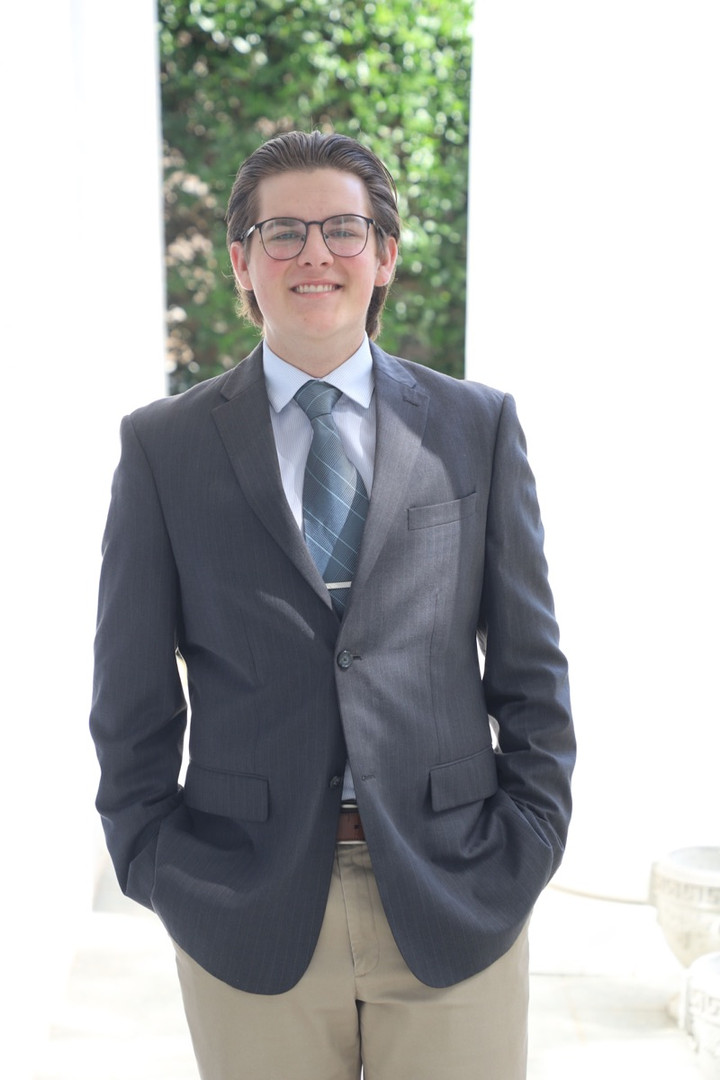
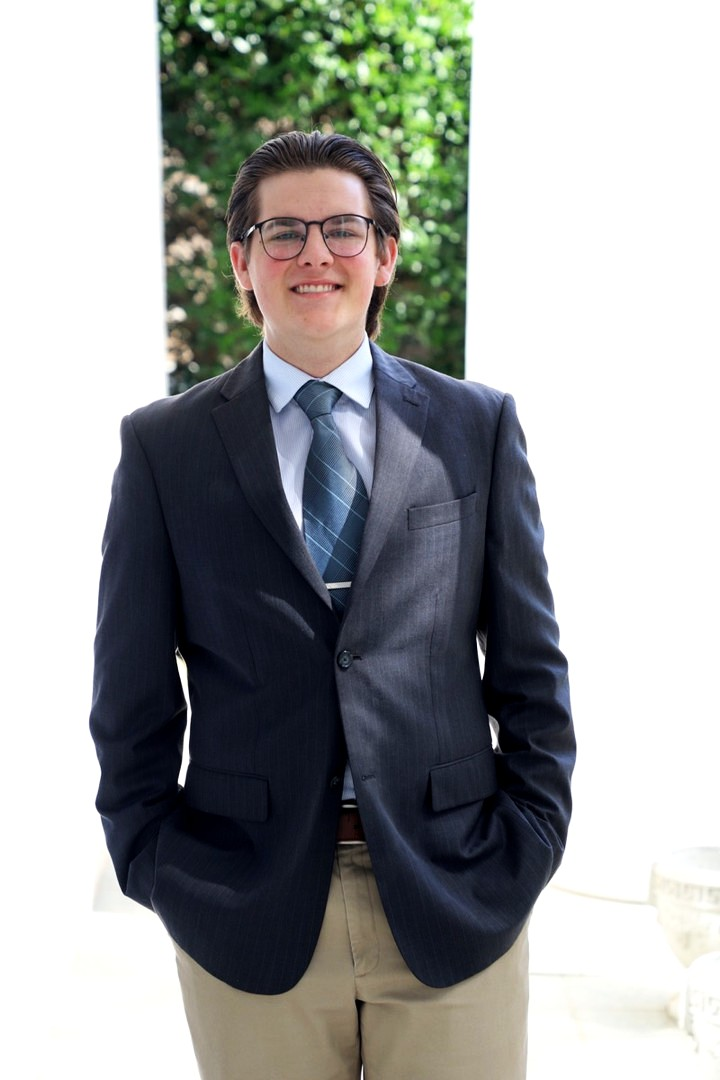
Move the sticky note into the footer, and grade the two photographs
Three owner-directed changes, none of them structural.

THE STICKY NOTE IS IN THE FOOTER NOW, half the size it was. Pinned to the
corner it was the loudest thing on every screen of a page that is meant to read
as a calm typeset site, and it announced an easter egg rather than hiding one.
In the footer you find it by reaching the end, or you never know it was there,
which is the right weight for a control that swaps the entire design. 62px note
to 31px, label 1.05rem to 0.8rem, shadows rescaled to match. It keeps its 44px
pointer target through padding, so the tap area did not shrink with the art.

THE FOUNDER PORTRAIT HAD NO BLACK, which is what "too bright" turned out to
mean. Measured against assets/chad.jpg, which was approved as shot and left
untouched:

    caden    mean 176.0   5th pct 59.9   sd 80.7    before
    chad     mean 111.4   5th pct 13.0   sd 82.3    the reference
    caden    mean 159.1   5th pct 15.0   sd 99.9    after

Its darkest five per cent sat at 60/255 against the approved portrait's 13, so
the suit was flat charcoal rather than navy with shadow detail, and the whole
frame floated 65 levels above the picture next to it. The cure is a black
point, not less light: the face and shirt stay where they were, which matters
because Goal 4 asks for clean bright portraits and specifically not grey or
washed ones.

THE LEVEL UP SHOT HAD THE OPPOSITE PROBLEM. Already dark, but its white
[…]

diff --git a/css/style.css b/css/style.css
@@ -956,7 +956,7 @@ a { color: inherit; }
    over these well before they finish arriving. */
 .caden-polaroid .pol-photo {
   object-position: 50% 10%;
[2 lines of base64/hex data omitted]
 }
 .chad-polaroid .pol-photo {
   object-position: 50% 22%;
@@ -1045,7 +1045,7 @@ a { color: inherit; }
      median is the black and nothing else, and at 48px the headline block and
      the logo are already where they will be. The filter below grades this as
      it grades the shot. */
[2 lines of base64/hex data omitted]
   /* four-colour on uncoated stock: no monitor blacks, no monitor saturation */
   filter: saturate(0.72) contrast(0.8) brightness(1.05) sepia(0.12);
 }
@@ -1336,19 +1336,20 @@ html.js.no-board .board-peek { display: none; }
 .board-exit { display: none; }
 
 html.js .board-peek {
-  position: fixed;
-  right: max(0.9rem, env(safe-area-inset-right));
-  bottom: max(0.9rem, env(safe-area-inset-bottom));
-  z-index: 60;
-  display: flex;
+  /* IN THE FOOTER, not pinned to a corner. Fixed to the viewport this was the
+     loudest thing on every screen of a page meant to read as a calm typeset
+     site; here it is a reward for reaching the bottom. Half the size it was,
+     for the same reason. */
+  display: inline-flex;
   align-items: center;
-  gap: 0.6rem;
+  gap: 0.55rem;
+  margin: 1.6rem 0 0.2rem;
   padding: 0;
   border: 0;
   background: none;
   cursor: pointer;
-  /* the whole control, note and label together, clears the 44px minimum
-     comfortably, so the tap target is the thing you can see */
+  /* the note itself is 31px now, so the control leans on padding to clear the
+     44px pointer-target minimum without looking bigger than it is */
   min-height: 44px;
   font: inherit;
   -webkit-tap-highlight-color: transparent;
@@ -1364,8 +1365,8 @@ html.js.board-open .board-peek { display: none; }
 .peek-note {
   position: relative;
   flex: 0 0 auto;
-  width: 62px;
-  height: 62px;
+  width: 31px;
+  height: 31px;
   /* the same photographed stock as the notes on the board, not a CSS square.
      sticky-04 is the smallest scan in the set at 3.5KB. Its own median sits
      underneath, so the note is the right yellow in the first frame and the
@@ -1375,8 +1376,8 @@ html.js.board-open .board-peek { display: none; }
     linear-gradient(#d1ce79, #d1ce79);
   transform: rotate(-4deg);
   filter:
-    drop-shadow(0 1px 1px rgba(25, 12, 4, 0.3))
-    drop-shadow(3px 7px 10px rgba(25, 12, 4, 0.32));
+    drop-shadow(0 1px 1px rgba(25, 12, 4, 0.28))
+    drop-shadow(1px 3px 5px rgba(25, 12, 4, 0.3));
   transition: transform 0.18s ease;
 }
 
@@ -1390,13 +1391,13 @@ html.js.board-open .board-peek { display: none; }
 
 .peek-label {
   font-family: var(--hand);
-  font-size: 1.05rem;
+  font-size: 0.8rem;
   line-height: 1;
   color: #2b2015;
   background: #f4efe2;
-  padding: 0.4rem 0.6rem;
+  padding: 0.25rem 0.4rem;
   transform: rotate(-1.2deg);
-  box-shadow: 0 2px 7px rgba(0, 0, 0, 0.32);
+  box-shadow: 0 1px 4px rgba(0, 0, 0, 0.28);
 }
 
 /* a note that has just been pressed lifts off the cork a little */

diff --git a/index.html b/index.html
@@ -126,7 +126,7 @@
       href="assets/fonts/space-mono-400-latin.woff2">
 <link rel="preload" as="font" type="font/woff2" crossorigin
       href="assets/fonts/caveat-latin.woff2">
-<link rel="stylesheet" href="css/style.css?v=47">
+<link rel="stylesheet" href="css/style.css?v=48">
 <!-- READING MODE, linked twice on purpose. See the header of css/reading.css.
      The media query covers narrow and short viewports; the <noscript> copy
      covers scripting being off at ANY width, which no media query can detect
@@ -364,6 +364,26 @@
   <footer class="site-footer">
     <p class="meta">&copy; 2026 WhittWorks Studios</p>
     <p class="meta meta-end">Birmingham, Alabama</p>
+
+    <!-- The way onto the cork board, and it lives HERE rather than pinned to a
+         corner on purpose. Fixed to the viewport it was the loudest thing on
+         every screen of a page that is meant to read as a calm typeset site.
+         In the footer it is a reward for reaching the end: you find it, or you
+         never know it was there, which is the right weight for an easter egg
+         that swaps the whole design. -->
+    <button class="board-peek" type="button" aria-controls="corkboard"
+            aria-label="Open the cork board version of this site">
+      <span class="peek-note" aria-hidden="true">
+        <svg class="ink peek-face" viewBox="0 0 100 100">
+          <!-- two Sharpie dashes and a mouth that overshoots on the left, the
+               way a hand drawing quickly finishes a curve past where it meant to -->
+          <path style="--sw:7" d="M35 37 q1.5 6 0.5 11"/>
+          <path style="--sw:7" d="M65 38 q-1.5 6 -0.5 11"/>
+          <path style="--sw:6" d="M27 59 q10 19 24 18 q16 -1 22 -20"/>
+        </svg>
+      </span>
+      <span class="peek-label">the real board</span>
+    </button>
   </footer>
 </div>
 
@@ -577,20 +597,6 @@
      the .ink treatment and the #roughen displacement filter with the five
      doodles pinned to the board itself.
      ================================================================== -->
-<button class="board-peek" type="button" aria-controls="corkboard"
-        aria-label="Open the cork board version of this site">
-  <span class="peek-note" aria-hidden="true">
-    <svg class="ink peek-face" viewBox="0 0 100 100">
-      <!-- two Sharpie dashes and a mouth that overshoots on the left, the
-           way a hand drawing quickly finishes a curve past where it meant to -->
-      <path style="--sw:7" d="M35 37 q1.5 6 0.5 11"/>
-      <path style="--sw:7" d="M65 38 q-1.5 6 -0.5 11"/>
-      <path style="--sw:6" d="M27 59 q10 19 24 18 q16 -1 22 -20"/>
-    </svg>
-  </span>
-  <span class="peek-label">the real board</span>
-</button>
-
 <button class="board-exit" type="button" aria-controls="corkboard"
         aria-label="Go back to the main site">
   <span aria-hidden="true">&larr;</span> back to the site

diff --git a/tools/lqip/grade_photos.py b/tools/lqip/grade_photos.py
@@ -1,0 +1,87 @@
+"""Re-grade the two photographs the owner asked for, in place, once.
+
+    python3 tools/lqip/grade_photos.py
+
+Run against a clean checkout, not against its own output: it is idempotent in
+effect only in the sense that running it twice grades a graded file.
+
+WHY THESE TWO AND NOT THE THIRD. assets/chad.jpg was approved as-is, so it is
+not touched. The other two were measured against it, and that is what made the
+complaint concrete:
+
+    caden.jpg     mean L 176.0   5th pct  59.9   95th pct 255.0   sd 80.7
+    chad.jpg      mean L 111.4   5th pct  13.0   95th pct 245.0   sd 82.3
+    levelup       mean L  50.1   5th pct   4.1   95th pct 221.0   sd 72.7
+
+The founder portrait reads "too bright" because it has NO BLACK. Its darkest
+five per cent sit at 60/255 where the approved portrait's sit at 13, so the
+suit is flat charcoal instead of navy with shadow detail, and the whole frame
+floats 65 levels above the picture next to it. The cure is a black point, not
+less light: pull the floor down, ease the midtones, and leave the face where it
+is. Goal 4 asks for clean bright portraits and specifically not grey, washed or
+soft ones, which is an argument FOR this, not against it.
+
+The Level Up screenshot is the opposite problem. It is already dark, but its
+white lettering tops out at 221 and its blacks never reach zero, so it reads as
+grey-on-grey rather than the high-contrast chrome the real page has. Blacks to
+zero, highlights up toward paper white; the black pops because the white does.
+
+    caden      black 42  white 248  gamma 0.86  highlight lift 0.10
+    levelup    black 26  white 236  gamma 0.90  highlight lift 0.22
+
+Both were chosen by the owner from a four-up comparison sheet (current, gentle,
+medium, strong) rather than by anyone's eye here. Both are "strong".
+
+THE GRADE BAKES INTO THE FILE, so it reaches both designs at once — the
+editorial portrait and the polaroid on the board come from one JPEG. Two CSS
+filters still sit on top per design and are deliberately left alone:
+.pol-photo carries brightness(1.05) contrast(1.05) saturate(1.06), the small
+print-punch the board's frames want, and .pc-picture carries
+saturate(.72) contrast(.8) brightness(1.05) sepia(.12), which is the postcard's
+print treatment and is meant to wash. Re-check both after running this.
+
+AFTERWARDS the inline placeholders in css/style.css are stale, because they are
+downscaled copies of these exact files:
+    python3 tools/lqip/make_lqip.py
+and replace the `caden` and `levelup` entries only.
+"""
+import numpy as np
+from PIL import Image
+
+GRADES = {
+    "assets/caden.jpg": dict(black=42, white=248, gamma=0.86, hi_lift=0.10, quality=90),
+    "assets/levelup-card-900.jpg": dict(black=26, white=236, gamma=0.90, hi_lift=0.22, quality=88),
+}
+
+
+def levels(img, black, white, gamma, hi_lift):
+    """A photographic levels move, in the order a darkroom would do it: set the
+    black and white points first, then bend the midtones, then lift the top."""
+    a = np.asarray(img.convert("RGB")).astype(np.float32)
+    a = np.clip((a - black) * (255.0 / (white - black)), 0, 255)
+    if gamma != 1.0:
+        a = 255.0 * np.power(a / 255.0, 1.0 / gamma)
+    if hi_lift:
+        n = a / 255.0
+        # gain that peaks in the upper mids and falls to zero at both ends, so
+        # highlights gain separation instead of clipping into a flat white
+        a = 255.0 * (n + hi_lift * n * n * (1.0 - n) * 4.0)
+    return Image.fromarray(np.clip(a, 0, 255).astype(np.uint8))
+
+
+def stats(im):
+    a = np.asarray(im.convert("RGB")).astype(float)
+    L = 0.2126 * a[..., 0] + 0.7152 * a[..., 1] + 0.0722 * a[..., 2]
+    return L.mean(), np.percentile(L, 5), np.percentile(L, 95), L.std()
+
+
+if __name__ == "__main__":
+    for path, g in GRADES.items():
+        src = Image.open(path)
+        before = stats(src)
+        out = levels(src, g["black"], g["white"], g["gamma"], g["hi_lift"])
+        out.save(path, "JPEG", quality=g["quality"], optimize=True, progressive=True)
+        after = stats(Image.open(path))
+        print("%-30s mean %5.1f -> %5.1f   5th %5.1f -> %5.1f   95th %5.1f -> %5.1f   sd %4.1f -> %4.1f"
+              % (path, before[0], after[0], before[1], after[1],
+                 before[2], after[2], before[3], after[3]))

diff --git a/assets/paper/SOURCES.md b/assets/paper/SOURCES.md
@@ -261,6 +261,45 @@ marketing needs the subject's permission independently of who owns the file.
   that testimonial. The photograph was taken at his own event; he holds the rights
   to the image and to both likenesses, and gave them for this use. Owner-confirmed
   2026-08-07. Nothing outstanding.
+### Tone grade on two of the three photographs (2026-08-07)
+Owner-directed, chosen from a four-up comparison sheet (current / gentle /
+medium / strong); both are "strong". Reproduce with
+`python3 tools/lqip/grade_photos.py` against a clean checkout.
+
+assets/chad.jpg is NOT touched — it was approved as shot, and it is the
+reference the other two were graded against. That comparison is what made the
+complaint measurable rather than a matter of taste:
+
+    caden.jpg   mean L 176.0   5th pct 59.9   95th 255.0   sd 80.7   BEFORE
+    chad.jpg    mean L 111.4   5th pct 13.0   95th 245.0   sd 82.3   approved
+    levelup     mean L  50.1   5th pct  4.1   95th 221.0   sd 72.7   BEFORE
+
+The founder portrait read "too bright" because it had NO BLACK: its darkest
+five per cent sat at 60/255 where the approved portrait's sat at 13, so the
+suit was flat charcoal instead of navy and the frame floated 65 levels above
+the picture beside it. The cure was a black point, not less light.
+
+    caden.jpg   black 42  white 248  gamma 0.86  highlight lift 0.10
+                -> mean 159.1   5th 15.0   95th 255.0   sd 99.9
+    levelup     black 26  white 236  gamma 0.90  highlight lift 0.22
+                -> mean  44.5   5th  0.0   95th 249.1   sd 86.8
+
+The Level Up screenshot had the opposite problem: already dark, but its white
+lettering topped out at 221 and its blacks never reached zero, so the chrome
+read grey-on-grey. Blacks to zero and highlights up toward paper white; the
+black pops because the white does.
+
+The grade is baked into the JPEGs, so it reaches both designs from one file.
+Two CSS filters still sit on top per design and were deliberately left as they
+were: .pol-photo carries brightness(1.05) contrast(1.05) saturate(1.06) for the
+board's frames, and .pc-picture carries saturate(.72) contrast(.8)
+brightness(1.05) sepia(.12), which is the postcard's print treatment and is
+meant to wash. Both were re-checked by eye after grading.
+
+The inline placeholders for `caden` and `levelup` in css/style.css were
+regenerated from the graded files with tools/lqip/make_lqip.py; `chad` and every
+other entry are unchanged.
+
 - assets/caden.jpg — Caden Whitt, founder, in the .caden-polaroid
   (index.html:183). Shot by a photographer during Caden's internship. Caden
   holds the rights to the image, and the subject is Caden himself, so both the
